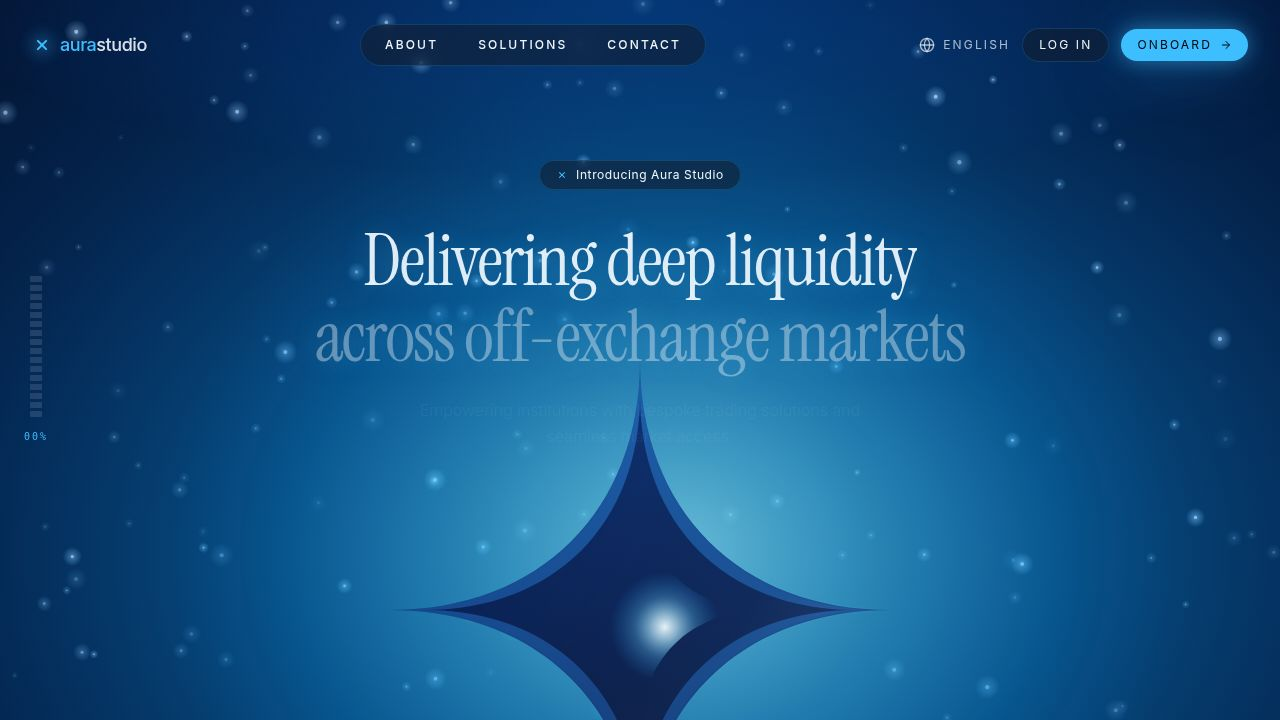
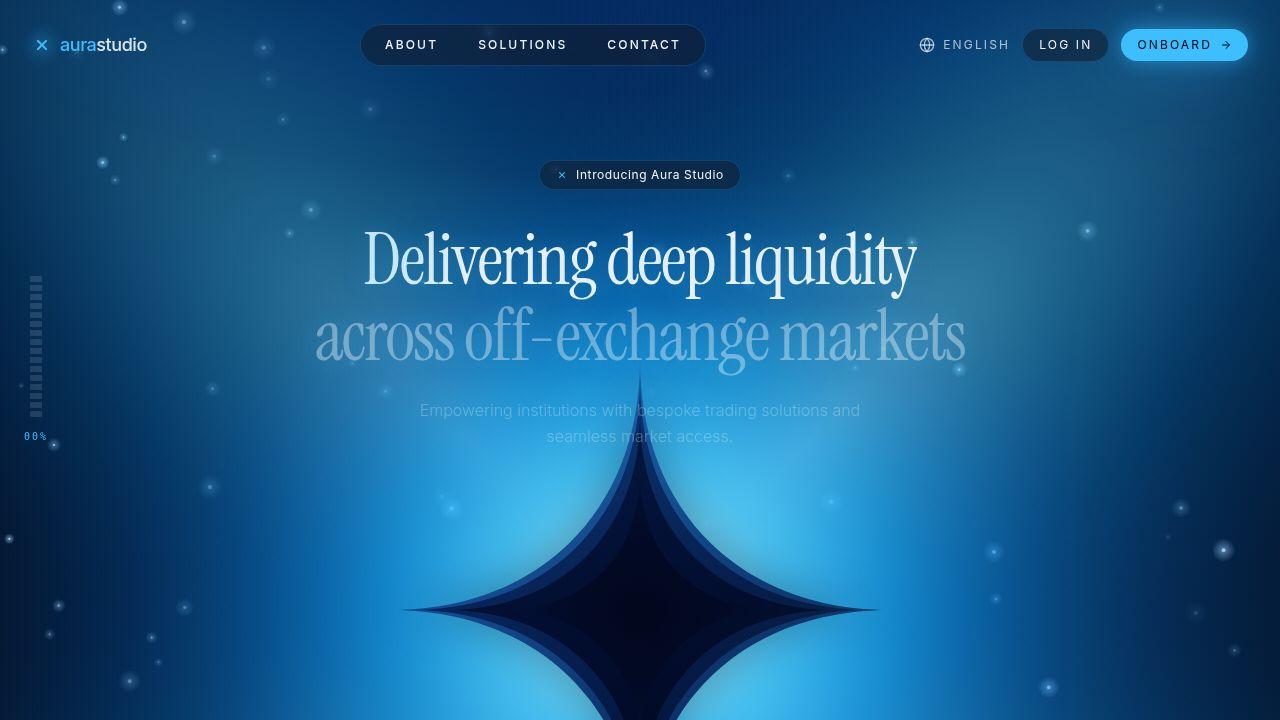
Add a new animated section with interactive streaks and a call to action
Introduce a new `HyperWarp` component to `home.tsx` for a dynamic visual section with radial streaks and squares, featuring customizable intensity and lifecycle.

Replit-Commit-Author: Agent
Replit-Commit-Session-Id: 86cc1e77-6000-4f6c-8695-55cee60dda7f
Replit-Commit-Checkpoint-Type: full_checkpoint
Replit-Commit-Event-Id: 13e4fd17-b2f0-4e51-8f13-659fdc1451bc
Replit-Commit-Screenshot-Url: https://storage.googleapis.com/screenshot-production-us-central1/2fd8e732-80e0-4642-84cc-25f08c9812cd/86cc1e77-6000-4f6c-8695-55cee60dda7f/WytjHhd
Replit-Helium-Checkpoint-Created: true

diff --git a/artifacts/main-site/src/components/HyperWarp.tsx b/artifacts/main-site/src/components/HyperWarp.tsx
@@ -1,0 +1,248 @@
+import { useEffect, useRef } from "react";
+
+type Streak = {
+  angle: number;
+  dist: number;
+  speed: number;
+  hue: number;
+  alpha: number;
+  thickness: number;
+};
+
+type Square = {
+  angle: number;
+  dist: number;
+  speed: number;
+  size: number;
+  rot: number;
+  rotSpeed: number;
+};
+
+/**
+ * Hyperspace warp section — long radial streaks in cyan + magenta,
+ * 4 bright squares flying outward, dark central void for text overlay.
+ *
+ * Per-particle lifecycle ~9–14s so streaks visibly elongate and
+ * accelerate, matching the reference's slow build-up.
+ */
+export default function HyperWarp({
+  streakCount = 240,
+  intensity = 1,
+  voidRadiusFactor = 0.28,
+  className = "",
+}: {
+  streakCount?: number;
+  intensity?: number;
+  voidRadiusFactor?: number;
+  className?: string;
+}) {
+  const canvasRef = useRef<HTMLCanvasElement>(null);
+  const sizeRef = useRef({ w: 0, h: 0 });
+  const rafRef = useRef<number | null>(null);
+  const streaksRef = useRef<Streak[]>([]);
+  const squaresRef = useRef<Square[]>([]);
+
+  useEffect(() => {
+    const canvas = canvasRef.current;
+    if (!canvas) return;
+    const ctx = canvas.getContext("2d");
+    if (!ctx) return;
+
+    const reducedMotion = window.matchMedia("(prefers-reduced-motion: reduce)").matches;
+    let visible = true;
+
+    const initStreak = (s: Streak, maxR: number, fresh = false) => {
+      s.angle = Math.random() * Math.PI * 2;
+      // Stagger initial dist on first init so we see streaks at all stages.
+      // Cap respawn dist at 56 so even on small viewports the streak still
+      // travels far enough to satisfy the ~9s minimum lifetime budget.
+      s.dist = fresh
+        ? 26 + Math.random() * (maxR * 0.6)
+        : 22 + Math.random() * 34;
+      s.speed = 0.35 + Math.random() * 0.65;
+      // 55% cyan-blue range, 45% pink-magenta range
+      s.hue =
+        Math.random() < 0.55
+          ? 188 + Math.random() * 30 // 188–218 cyan / electric blue
+          : 305 + Math.random() * 28; // 305–333 magenta / hot pink
+      s.alpha = 0.7 + Math.random() * 0.3;
+      s.thickness = 1.1 + Math.random() * 1.9;
+    };
+
+    const initSquare = (sq: Square, idx: number) => {
+      // Fixed cardinal-diagonal anchors — like the reference
+      const baseAngles = [Math.PI / 4, (3 * Math.PI) / 4, (5 * Math.PI) / 4, (7 * Math.PI) / 4];
+      sq.angle = baseAngles[idx] + (Math.random() - 0.5) * 0.15;
+      sq.dist = 70 + Math.random() * 40;
+      sq.speed = 0.8 + Math.random() * 0.4;
+      sq.size = 9 + Math.random() * 4;
+      sq.rot = Math.random() * Math.PI;
+      sq.rotSpeed = (Math.random() - 0.5) * 0.012;
+    };
+
+    const resize = () => {
+      const dpr = Math.min(window.devicePixelRatio || 1, 1.5);
+      const rect = canvas.getBoundingClientRect();
+      sizeRef.current = { w: rect.width, h: rect.height };
+      canvas.width = rect.width * dpr;
+      canvas.height = rect.height * dpr;
+      ctx.setTransform(dpr, 0, 0, dpr, 0, 0);
+
+      const maxR = Math.sqrt(rect.width * rect.width + rect.height * rect.height) / 2;
+
+      const arr: Streak[] = [];
+      for (let i = 0; i < streakCount; i++) {
+        const s: Streak = { angle: 0, dist: 0, speed: 0, hue: 0, alpha: 0, thickness: 0 };
+        initStreak(s, maxR, true);
+        arr.push(s);
+      }
+      streaksRef.current = arr;
+
+      const sqArr: Square[] = [];
+      for (let i = 0; i < 4; i++) {
+        const sq: Square = { angle: 0, dist: 0, speed: 0, size: 0, rot: 0, rotSpeed: 0 };
+        initSquare(sq, i);
+        sqArr.push(sq);
+      }
+      squaresRef.current = sqArr;
+
+      if (rafRef.current === null) draw();
+    };
+
+    const draw = () => {
+      const { w, h } = sizeRef.current;
+      const cx = w / 2;
+      const cy = h / 2;
+      const maxR = Math.sqrt(cx * cx + cy * cy) + 80;
+
+      // Hard clear — clean streaks, no motion-blur smear
+      ctx.clearRect(0, 0, w, h);
+
+      // ===== Streaks =====
+      ctx.lineCap = "round";
+      for (const s of streaksRef.current) {
+        const prevDist = s.dist;
+        // Exponential perspective acceleration — slow start, fast finish.
+        // With dist range ~24..maxR (worst case maxR≈700 on a small viewport),
+        // these factors yield lifetime ≈ 9.7s (max speed) to ~14s (min speed).
+        s.dist *= 1.0028 + s.speed * 0.0026;
+
+        if (s.dist > maxR) {
+          initStreak(s, maxR);
+          continue;
+        }
+
+        const distFactor = Math.min(1, s.dist / maxR);
+        // Trail length: max of "instantaneous velocity" and "perspective length".
+        // Long near edge, short near center → classic warp look.
+        const trailLen = Math.max(s.dist - prevDist, s.dist * 0.45);
+
+        const ca = Math.cos(s.angle);
+        const sa = Math.sin(s.angle);
+        const x1 = cx + ca * s.dist;
+        const y1 = cy + sa * s.dist;
+        const x2 = cx + ca * Math.max(0, s.dist - trailLen);
+        const y2 = cy + sa * Math.max(0, s.dist - trailLen);
+
+        const grad = ctx.createLinearGradient(x1, y1, x2, y2);
+        const a = s.alpha * distFactor * intensity;
+        grad.addColorStop(0, `hsla(${s.hue}, 100%, 82%, ${a})`);
+        grad.addColorStop(0.32, `hsla(${s.hue}, 100%, 65%, ${a * 0.7})`);
+        grad.addColorStop(1, `hsla(${s.hue}, 95%, 45%, 0)`);
+
+        ctx.strokeStyle = grad;
+        ctx.lineWidth = s.thickness * (0.55 + distFactor * 1.25);
+        ctx.beginPath();
+        ctx.moveTo(x1, y1);
+        ctx.lineTo(x2, y2);
+        ctx.stroke();
+      }
+
+      // ===== 4 white glowing squares =====
+      for (const sq of squaresRef.current) {
+        // Slower than streaks → squares linger throughout the warp build-up.
+        sq.dist *= 1.002 + sq.speed * 0.0018;
+        sq.rot += sq.rotSpeed;
+
+        if (sq.dist > maxR * 0.92) {
+          // Reset closer to center, slight angle wobble
+          sq.dist = 60 + Math.random() * 30;
+          sq.angle += (Math.random() - 0.5) * 0.05;
+        }
+
+        const distFactor = Math.min(1, sq.dist / (maxR * 0.92));
+        const sz = sq.size * (0.45 + distFactor * 1.4);
+        const alpha = Math.min(1, 0.25 + distFactor * 1.05) * intensity;
+
+        const x = cx + Math.cos(sq.angle) * sq.dist;
+        const y = cy + Math.sin(sq.angle) * sq.dist;
+
+        ctx.save();
+        ctx.translate(x, y);
+        ctx.rotate(sq.rot);
+
+        // Wide soft halo
+        const halo = ctx.createRadialGradient(0, 0, 0, 0, 0, sz * 4.5);
+        halo.addColorStop(0, `hsla(195, 100%, 90%, ${alpha * 0.55})`);
+        halo.addColorStop(0.35, `hsla(200, 100%, 75%, ${alpha * 0.22})`);
+        halo.addColorStop(1, `hsla(210, 100%, 55%, 0)`);
+        ctx.fillStyle = halo;
+        ctx.fillRect(-sz * 4.5, -sz * 4.5, sz * 9, sz * 9);
+
+        // Bright white square core
+        ctx.fillStyle = `rgba(255, 255, 255, ${alpha})`;
+        ctx.fillRect(-sz, -sz, sz * 2, sz * 2);
+
+        // Inner highlight to keep it crisp
+        ctx.fillStyle = `rgba(220, 245, 255, ${alpha * 0.85})`;
+        ctx.fillRect(-sz * 0.55, -sz * 0.55, sz * 1.1, sz * 1.1);
+
+        ctx.restore();
+      }
+
+      // ===== Central dark void (where the text sits) =====
+      const vr = Math.min(w, h) * voidRadiusFactor;
+      const voidGrad = ctx.createRadialGradient(cx, cy, 0, cx, cy, vr * 1.7);
+      voidGrad.addColorStop(0, "rgba(2, 6, 17, 1)");
+      voidGrad.addColorStop(0.55, "rgba(2, 6, 17, 0.96)");
+      voidGrad.addColorStop(0.78, "rgba(2, 6, 17, 0.55)");
+      voidGrad.addColorStop(1, "rgba(2, 6, 17, 0)");
+      ctx.fillStyle = voidGrad;
+      ctx.fillRect(0, 0, w, h);
+
+      if (visible && !reducedMotion) {
+        rafRef.current = requestAnimationFrame(draw);
+      } else {
+        rafRef.current = null;
+      }
+    };
+
+    resize();
+
+    const io = new IntersectionObserver(
+      (entries) => {
+        for (const e of entries) {
+          visible = e.isIntersecting;
+          if (visible && rafRef.current === null && !reducedMotion) draw();
+        }
+      },
+      { rootMargin: "150px" }
+    );
+    io.observe(canvas);
+
+    window.addEventListener("resize", resize);
+
+    return () => {
+      if (rafRef.current) cancelAnimationFrame(rafRef.current);
+      io.disconnect();
+      window.removeEventListener("resize", resize);
+    };
+  }, [streakCount, intensity, voidRadiusFactor]);
+
+  return (
+    <canvas
+      ref={canvasRef}
+      className={`pointer-events-none absolute inset-0 h-full w-full ${className}`}
+    />
+  );
+}

diff --git a/artifacts/main-site/src/pages/home.tsx b/artifacts/main-site/src/pages/home.tsx
@@ -6,6 +6,7 @@ import SectionReveal from "@/components/SectionReveal";
 import GlowingStar from "@/components/GlowingStar";
 import ScrollProgress from "@/components/ScrollProgress";
 import WarpStreaks from "@/components/WarpStreaks";
+import HyperWarp from "@/components/HyperWarp";
 import HorizonGlow from "@/components/HorizonGlow";
 import CursorGlow from "@/components/CursorGlow";
 import SparkleField from "@/components/SparkleField";
@@ -353,6 +354,55 @@ export default function Home() {
               Contact our desk <ArrowRight className="w-3 h-3" />
             </button>
           </div>
+        </div>
+      </SectionReveal>
+
+      {/* HYPERSPACE / READY-TO-DIVE SECTION */}
+      <SectionReveal id="dive" className="relative w-full overflow-hidden z-10 min-h-[90vh] flex items-center justify-center">
+        <div className="absolute inset-0">
+          <HyperWarp streakCount={260} intensity={1.05} voidRadiusFactor={0.3} />
+        </div>
+
+        <div className="relative z-10 max-w-3xl mx-auto text-center px-4">
+          <motion.div
+            initial={{ opacity: 0, y: 20 }}
+            whileInView={{ opacity: 1, y: 0 }}
+            viewport={{ once: true, margin: "-150px" }}
+            transition={{ duration: 0.9 }}
+            className="glass inline-flex items-center gap-2 px-4 py-1.5 rounded-full text-xs mb-8"
+          >
+            <Plus className="w-3 h-3 text-primary rotate-45" />
+            <span className="tracking-wider">How it Works</span>
+          </motion.div>
+          <motion.h2
+            initial={{ opacity: 0, scale: 0.94 }}
+            whileInView={{ opacity: 1, scale: 1 }}
+            viewport={{ once: true, margin: "-150px" }}
+            transition={{ duration: 1.1, ease: [0.16, 1, 0.3, 1] }}
+            className="font-serif text-5xl md:text-7xl lg:text-8xl leading-[1.02] tracking-tight text-glow-soft"
+          >
+            Ready <em className="text-primary text-glow not-italic">to dive in?</em>
+          </motion.h2>
+          <motion.p
+            initial={{ opacity: 0 }}
+            whileInView={{ opacity: 1 }}
+            viewport={{ once: true, margin: "-150px" }}
+            transition={{ duration: 1, delay: 0.4 }}
+            className="mt-8 text-base md:text-lg text-foreground/65 max-w-xl mx-auto leading-relaxed"
+          >
+            Step through the threshold — institutional liquidity, bespoke execution, and a desk that moves at the speed of your strategy.
+          </motion.p>
+          <motion.div
+            initial={{ opacity: 0, y: 20 }}
+            whileInView={{ opacity: 1, y: 0 }}
+            viewport={{ once: true, margin: "-150px" }}
+            transition={{ duration: 0.8, delay: 0.7 }}
+            className="mt-12"
+          >
+            <button className="bg-primary text-primary-foreground px-8 py-4 rounded-full text-sm font-medium tracking-[0.18em] uppercase inline-flex items-center gap-3 hover:bg-white transition-all glow-cyan">
+              Begin onboarding <ArrowRight className="w-4 h-4" />
+            </button>
+          </motion.div>
         </div>
       </SectionReveal>
 